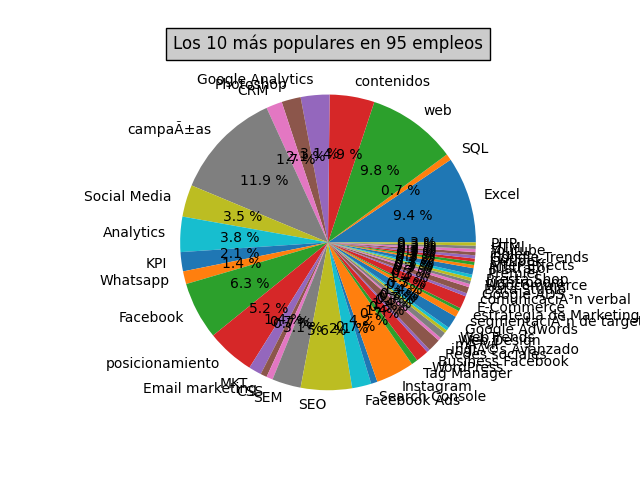
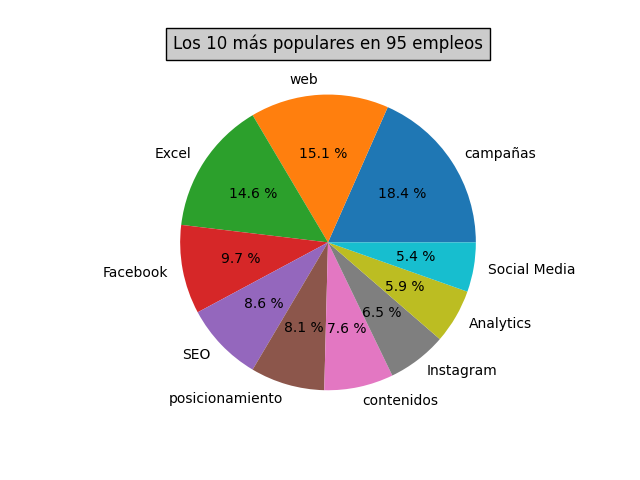
corrijo acentos

diff --git a/scrapers/funciones.py b/scrapers/funciones.py
@@ -4,6 +4,7 @@ from collections import Counter
 import matplotlib.pyplot as plt
 import sys
 from pathlib import Path
+import codecs
 
 def get_diccionario(descripcion,tecnologias_todas):
     tecnologias_lista=[]
@@ -28,12 +29,11 @@ def crear_grafica(tecnologias,total_empleos,rubro):
 
 def get_info(archivo,rubro):
     col_list = ["DESCRIPCION", "EXPERIENCIA"]
-    df=pd.read_csv(archivo, sep=',',encoding = "ISO-8859-1",usecols=col_list)
+    df=pd.read_csv(archivo, sep=',',encoding="utf-8",usecols=col_list)
     list1=df["EXPERIENCIA"]
     anios_experiencia = Counter(list1)
 
     df=df.drop_duplicates()
-
 
     descripcion_todas=[]
     descripcion_1=[]
@@ -44,9 +44,9 @@ def get_info(archivo,rubro):
     descripcion_6=[]
     descripcion_nada=[]
     contador=0
-     
+
     for descr in  df["DESCRIPCION"]:
-         
+      
         experiencia=str(df["EXPERIENCIA"].values[contador])
         if experiencia=="1":
             descripcion_1.append(descr)
@@ -56,32 +56,33 @@ def get_info(archivo,rubro):
             descripcion_3.append(descr)
         if experiencia=="6":
             descripcion_4.append(descr)
-         
         if experiencia=="N/D":
             descripcion_nada.append(descr)
         contador+=1
-    with open(str(Path(__file__).parent.absolute())+diagonal+"dict_"+str(rubro)+".txt", "r", encoding="ISO-8859-1") as f:
-        data = f.readlines()
+        archivo_tecnologias=str(Path(__file__).parent.absolute())+diagonal+"dict_"+str(rubro)+".txt"
+    #with codecs.open(str(Path(__file__).parent.absolute())+diagonal+"dict_"+str(rubro)+".txt", "r", encoding="ISO-8859-1",errors='ignore') as f:
+    #    data = f.readlines()
+    tecnos_df=pd.read_csv(archivo_tecnologias, sep=',',encoding = "utf-8")
+    tecnologias=list(tecnos_df.columns)
     
-    tecnologias = data[0].split(",")
-    tecnologias= [x.replace("\n","") for x in tecnologias]
+    #tecnologias = data[0].split(",")
+    tecnologias= [x.replace("\n","").lstrip().rstrip() for x in tecnologias]
 
-    tecnologias=map(str.strip, tecnologias)
+    #tecnologias=map(str.strip, tecnologias)
     tecnologias_todas=set(tecnologias) 
-
-     
+ 
     conjunto=df["DESCRIPCION"]
 
     tecnologias=get_diccionario(conjunto,tecnologias_todas)
     crear_grafica(tecnologias,len(conjunto),"marketing")
-    
-    
+
+
 platform=sys.platform
 if platform=="linux":
     diagonal="/"
 else:
     diagonal="\\"
-    
+
 if __name__ == "__main__":
     archivo=str(sys.argv[1])
     get_info(archivo,"marketing")
